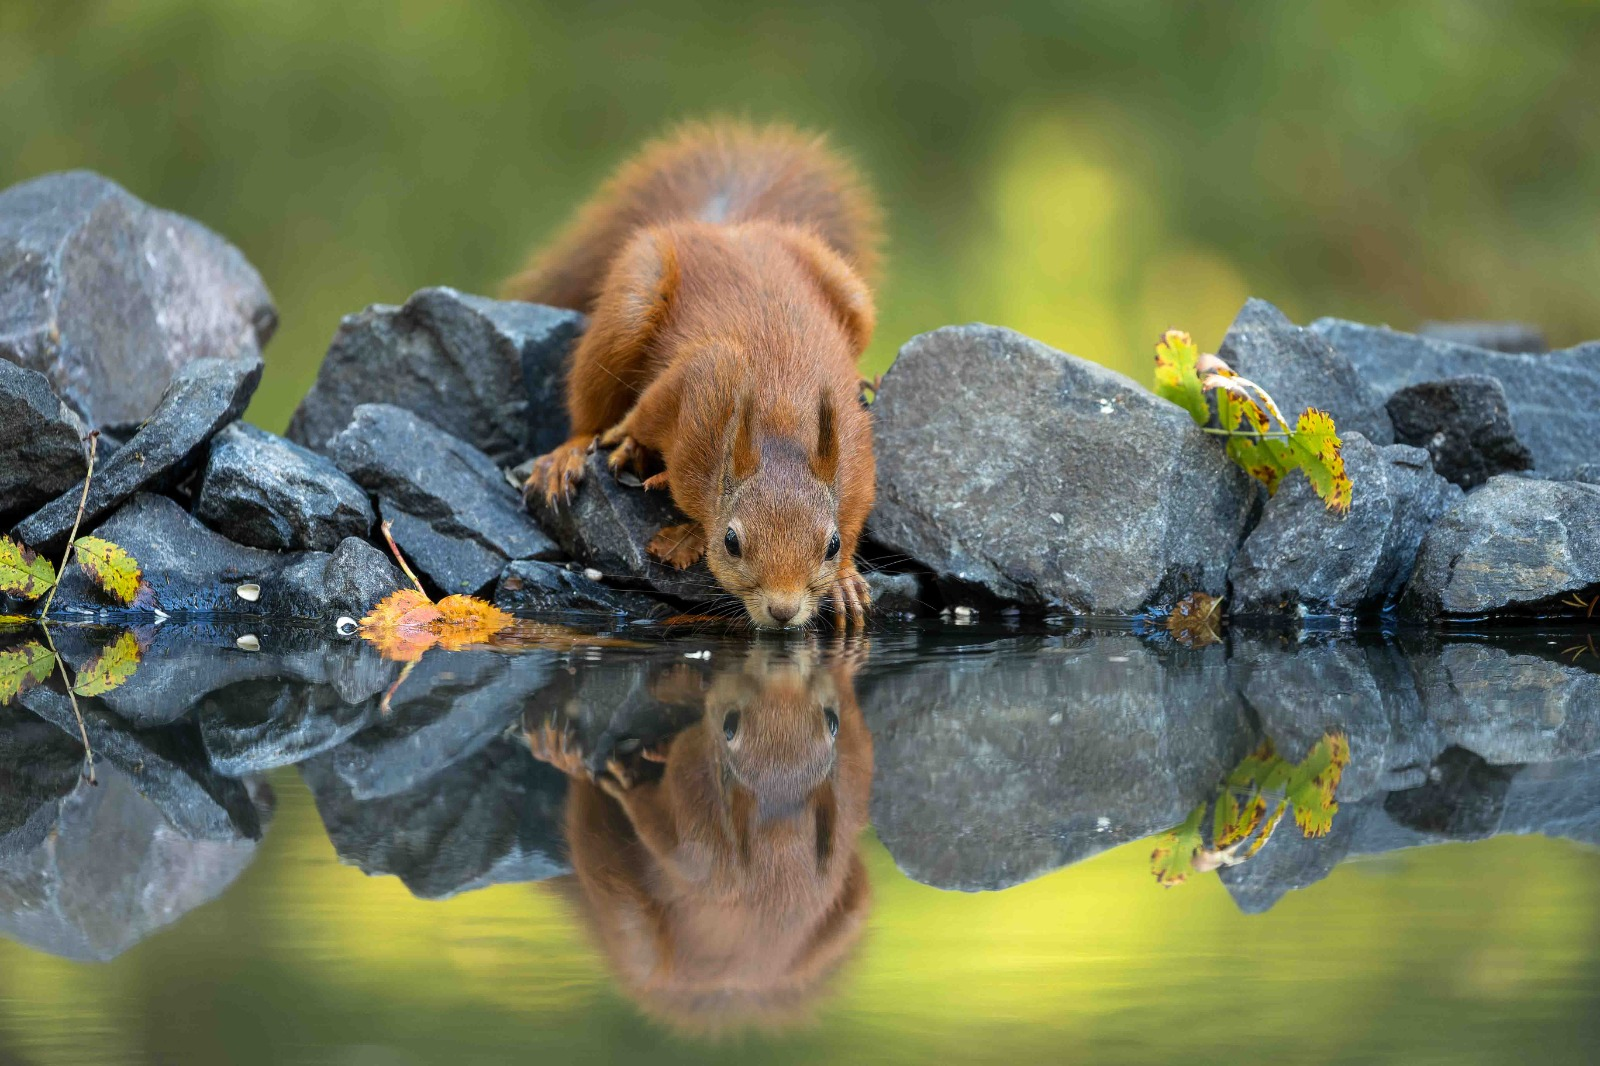
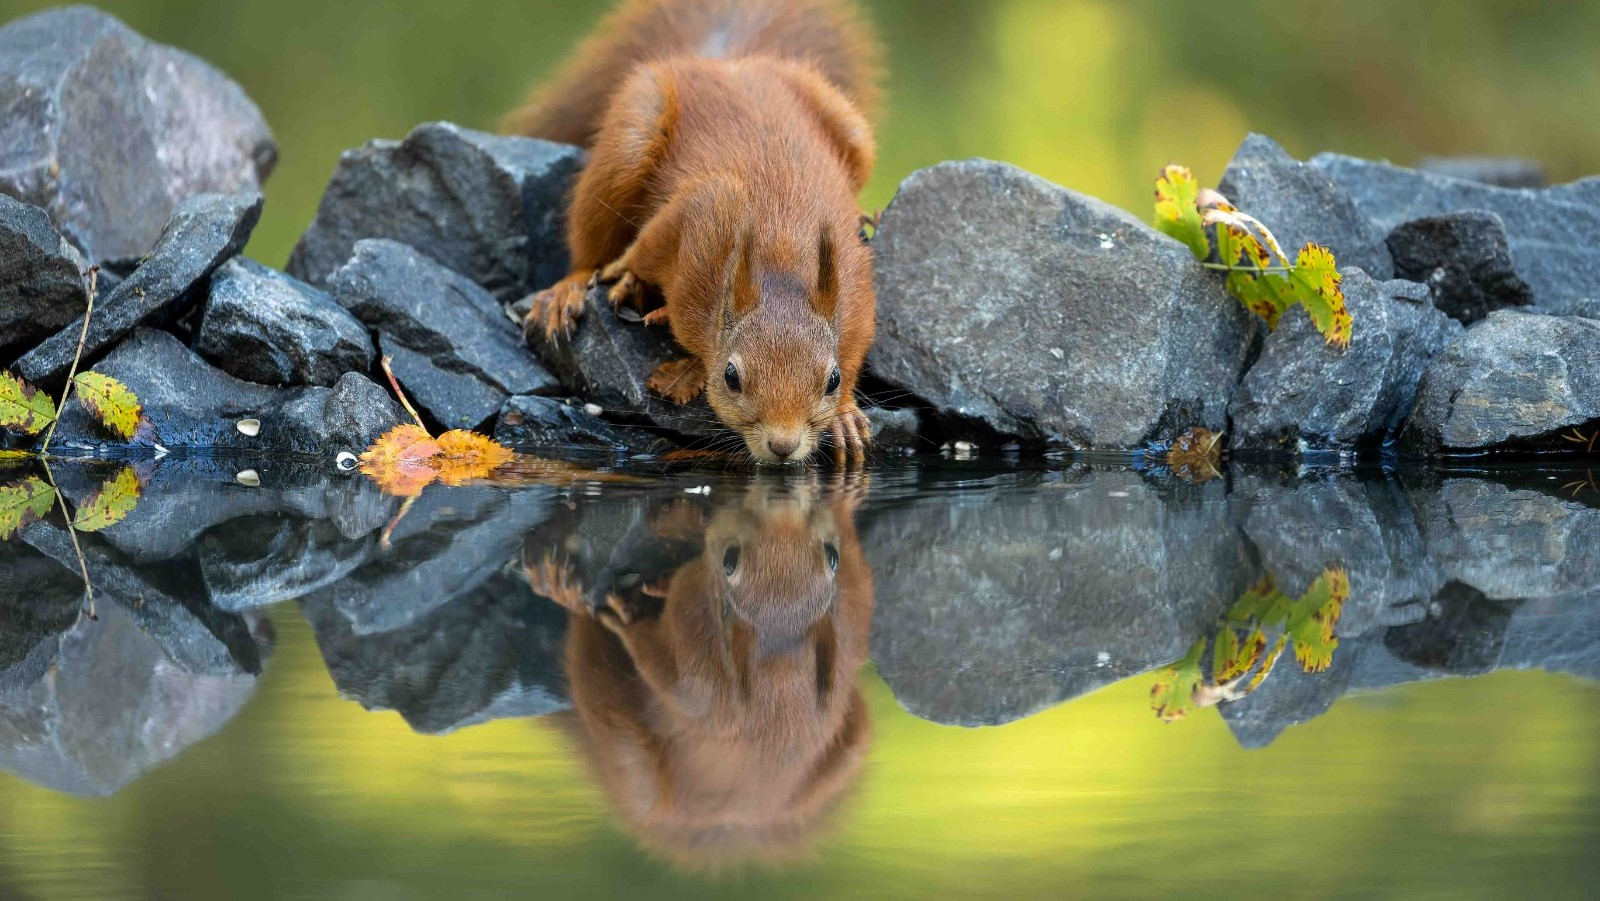
Update readme with project planning

diff --git a/static/css/base.css b/static/css/base.css
@@ -13,7 +13,7 @@ body {
 }
 
 .hero-image {
-    background: url("../../media/wildlife.widescreensquirrel.index.jpeg") no-repeat center center fixed;
+    background: url("../../media/wildlife.squirrel.index.jpeg") no-repeat center center fixed;
     background-size: cover;
     height: 1040px;
 }

diff --git a/README.md b/README.md
@@ -1,3 +1,83 @@
+# JB Wildlife Prints
+
+An online webshop for wildlife prints from photographer Joris Bomert.
+
+## Development 
+---------------
+- This sites main purpose is to advertise and sell JB's photos to customers that are looking to buy beautiful prints of wild animals.  
+- It's a B2C site that sells prints as a product to consumer, with a single payment.
+- Payment method, card, or Swish( sweden only). Swish is a mobile app that's extremely popular in sweden, and every buissiness have it as payment option.
+- The site will include a card payment method(stripe) and a shopping cart, a filter image function, high quality images, and in the future a rating and comment system.
+- I have planned both swedish and english keywords, and these were suggested by the search engine.
+    - Short-tail keywords:
+        - Wildlife, wildlife in sweden, wildlife prints. Djur, natur, tavlor, foto.
+    - Long-tail keywords :
+        - Wildlife prints for sale, common wildlife in sweden, nature photography online shop. Stora tavlor djur, posters djur och natur. Köpa fotografier online. 
+
+    - Keywords that I will use, based on wordtracker.com:
+        - Wildlife photography(4.300), sweden wildlife(90), wildlife pictures(570), wildlife paintings online for sale(80), tavlor med naturmotiv(5)
+
+- The site will link to following sites to increase SEO validation:
+    - Svenska Rovdjursföreningen, a swedish wildlife magazine that often publishes JB's photographs. 
+    - Canon, the company whose products is used by JB to produce these beautiful photos and prints. 
+- The link to this site will be published on both Instagram and the Facebook business page
+
+### Users
+- This sites user focus are people who appreciate wildlife, and would like to purchase a print of their choise from our webshop. 
+- The best way to reach my users is through facebook and instagram, as there is hashtags and facebook groups to ensure that it's the correct user group. These are also the best places for users to view wildlife content, as there is algorithm that ensures that the users only see what they are interested in.
+- It's not difficult to find a web store that sells mass produced prints of wildlife. What is offered on this website however, is a chanse to buy prints directly from a expert photographer. These prints are not part of a mass production, they are printed in limited ammount to keep each image's unique value.
+- Delivering this content will be tough, as the competition is high. The best way for us to achieve this without a commercial budget, is through social media, and by building a network.
+
+### Sales 
+- Art such as these photographs, is not something that should be put on weekly sales, as it lowers the unique value of treating/displaying it as a mass production. Exeption would be for the hollidays, as it is only once per year, and for a special occasion. 
+
+### Goal
+- The goal of this buisiness is to create a site where users can easily and secure make a purchase of the unique prints from JB's collection. The intent is to have a fully functioning, good looking, trustworthy webstore. 
+- Paid ads is not a priority as of this moment. Using free social platforms, and advertisement through social network will be good enough for now.
+
+### SEO 
+- To create the feeling of expertise and authoritativeness to users, I would like to display the prints in a real world enviroment. There are websites that generates a photo in a livingroom etc. This is not MVP however, but it is certainly important to implement. 
+- Another important feauture for trustworthiness, is ratings and user comments. Not either MVP, but important for future.
+- Purchasing a custom domain will increase trust and is important in the future.
+- A picture is worth a thousand words. I believe using less text, and instead focus on quality images and clear subtle navigation is going to be the best approach for this site.
+
+### Mockup
+- It was first planned to be published in swedish on the frontend, hence why some mockups are written in swedish and some in english.
+- It's very possible that the end product won't look exactly like the mockup due to technical issues or increased UX
+
+![Flowchart](media/flowchart.jpg)
+- High quality landing page, clear purpose of the site is in the hero title section. To keep the image clean, I have not added a typical navigation bar. Instead there is two buttons, one for contact page and one directly to the webshop. 
+- 3 reasons section where I present to the user what can be expected in terms of quality and service. As well as a section for the photographer JB to introduce himself to the user. 
+
+![Landing page](media/mocklandingpage.jpg)
+- Bottom section of page will be same across all pages, a option for users to sign up for a newsletter, and a footer with social links and a nav element to the other pages. Once again, I have on purpose not added a typical navigation bar on top of the page, but instead, users can reach the pages from the footer on every page. 
+
+- On mobile devices, the navigation is collapsed, to keep the hero image clean and for improved UX. The user can navigate to all pages from this dropdown as well.
+- 3 reasons section is now below a image carousel, this to make it more clear to visitors on mobile devices what the purpose of the site is - photographs of wildlife.
+
+![Landing page mobile](media/mockupmobile.landing1.jpg)
+- The webshop page contains a gallery of high quality images. If the user has not chosen a filter, all available prints are shown. Two filter options, mamals and birds. Later on in production, more filters could be added, such as filter by seasons. 
+- The shopping bag icon :
+    - If user has added a product to cart, this icon will be accessible on all pages.
+
+![Webshop](media/mockupwebshop.jpg)
+- If user selects a image, they get sent to a photo preview window. It has:
+    - A larger preview of the photo
+    - Next and previus arrows - this will display other photos of the same animal species, so that the user don't have to go back to select another yet similar product. 
+    - Size options and responsive pricing. User selects which print size they would like, and the price updates accordingly.
+
+![Webshop mobile](media/mockupmobile.webshop2.jpg)
+
+- Checkout page contains a smaller preview of the product/s, ammount, shipping cost and total cost. Users can edit ammount or delete item on this page. To continue, user has to sign up/ sign in. This requirement is described next to the Continue button, so that the user knows that it is required before they press Continue.
+- The authentitaction is planned to be handled inside a modal.
+
+![Checkout page](media/mockup.checkout.jpg)
+
+- Once user have gone through the authentication steps, they can now fill in the required fields for shipping and credit card details.
+- If the user(sweden only) wishes to pay with Swish as mentioned earlier, they would have to contact JB, as Swish connects to a phone number. For privacy, I do not put JB's phone number on this page. This is explained to the user on the page.
+- When all the required fields have correct value, user can click Purchase button. A confirmation email is sent to the user. 
+
+
 ## Deployment
 ---------------
 
@@ -7,3 +87,11 @@
     - Underneath Deploy on heroku, selecting deployment method: GitHub
     - Connect repository from GitHub
     - Choose main branch, then Deploy Branch
+
+
+## Credits
+---------------
+
+### Content
+- For mockup, 'moqups.com' was used. This page offered 400 objects for free, but for future I would concider purchase upgraded plan, as it's easy to use and learn, and offers great tools for project planning.
+- All photos used on this page is by photographer Joris Bomert, with his permission naturally, as it is a webstore for his products.
